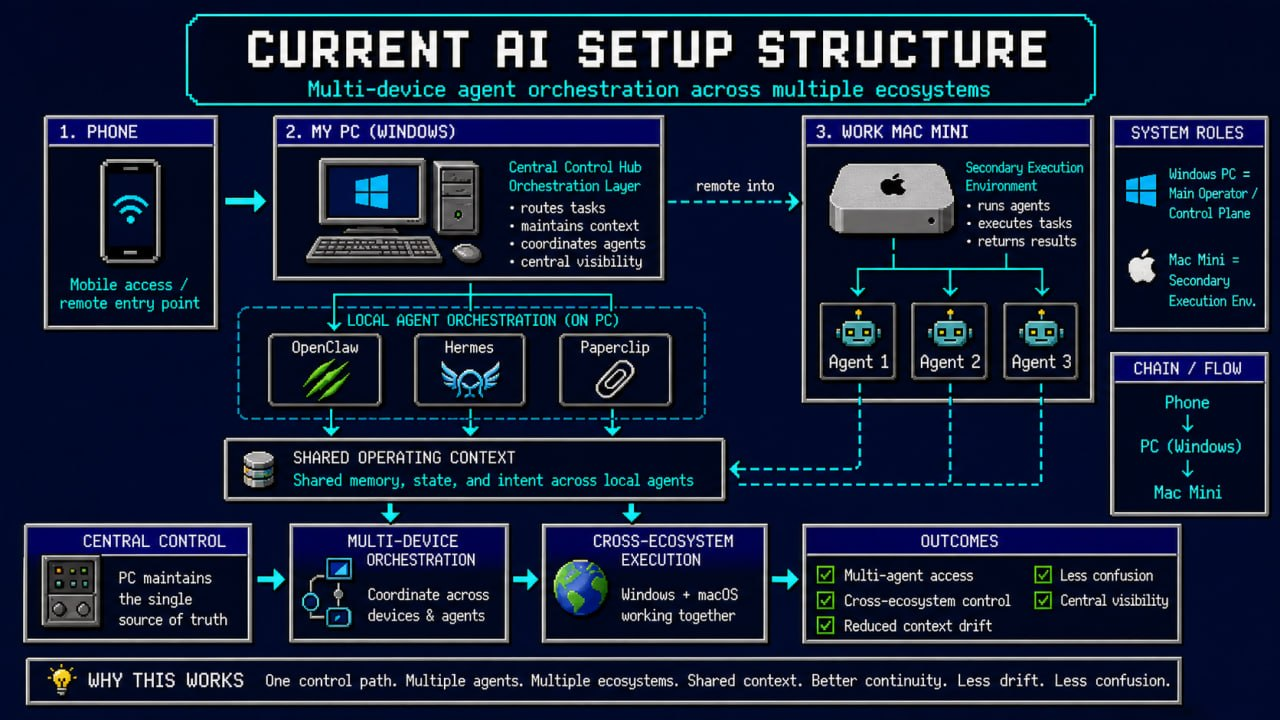
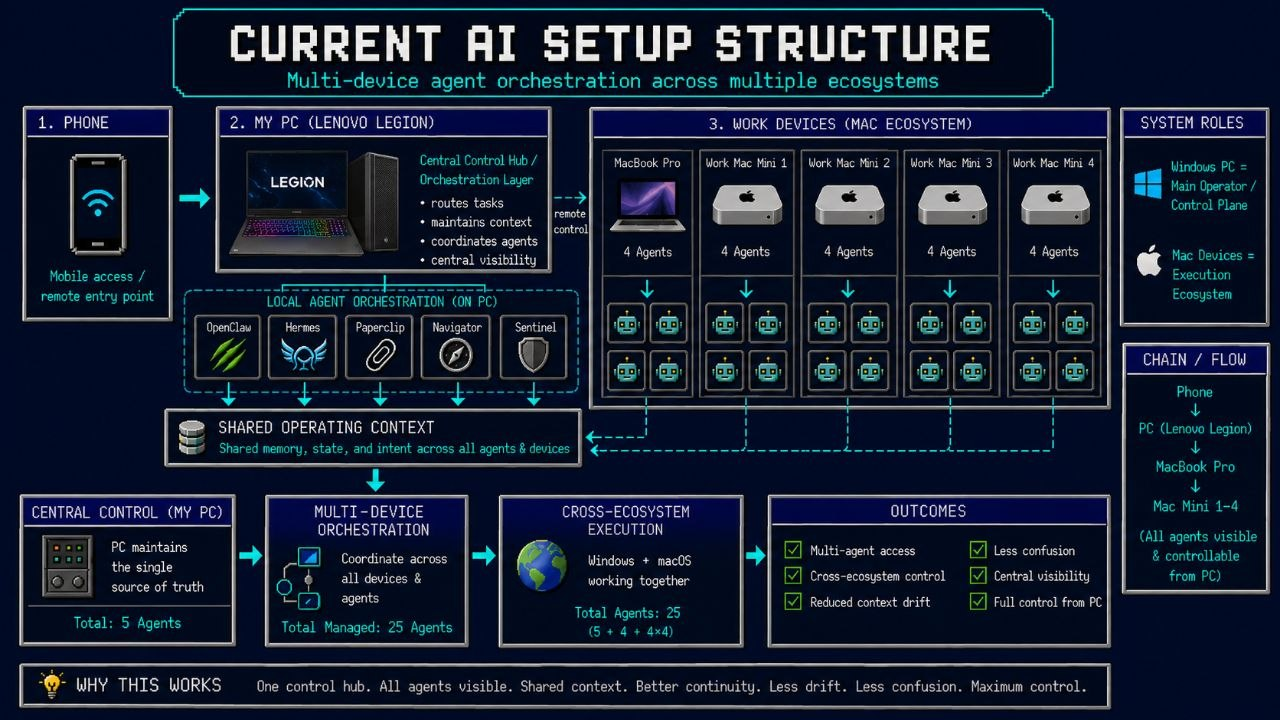
Update AI setup diagram and enablement copy

diff --git a/index.html b/index.html
@@ -200,15 +200,22 @@
     </section>
 
     <section id="buildWindow" class="win-window doc-window" aria-label="What I Build" style="left:150px;top:70px;width:min(960px,94vw);height:min(730px,calc(100dvh - 90px));">
-      <div class="win-title"><span>What I Build - Practical AI Value Systems</span><button class="win-close" data-close="buildWindow">×</button></div>
+      <div class="win-title"><span>What I Build - Business AI Enablement</span><button class="win-close" data-close="buildWindow">×</button></div>
       <div class="win-body document-body">
         <article class="resume-doc build-doc">
           <div class="mini-heading lift-heading"><h2>What I Build</h2></div>
           <figure class="site-art-card"><img src="assets/site-art/workflow-systems.jpg" alt="Pixel art workflow systems graphic showing CRM, automation, dashboards, operations, validation, and visibility" loading="lazy" /></figure>
-          <p class="brand-promise"><b>I help turn AI from confusing tools and scattered experiments into practical workflows, automations, agents, dashboards, and operating layers that people can actually use.</b></p>
+          <p class="brand-promise"><b>I build the environment that enables the business and the people inside it to become better with AI: shared context, safe agent workflows, dashboards, training loops, and operating habits that turn staff into confident AI users instead of passive tool consumers.</b></p>
+          <figure class="agent-setup-diagram business-ai-environment">
+            <a href="assets/diagrams/current-ai-setup-structure.jpg?v=20260617-agent-setup" target="_blank" rel="noopener" aria-label="Open business AI enablement environment diagram full size">
+              <img src="assets/diagrams/current-ai-setup-structure.jpg?v=20260617-agent-setup" alt="Current AI setup structure used as an environment for business AI enablement, showing shared context, orchestration, multi-device agents, and people gaining clearer leverage from AI." loading="lazy" />
+            </a>
+            <figcaption><b>Environment over tools:</b> the goal is not one clever chatbot. It is a visible operating layer where staff can learn, delegate, review, improve workflows, and become AI-capable operators inside the business.</figcaption>
+          </figure>
           <div class="build-grid">
             <article class="mini-content-card"><b>Lead Response & Customer Journey</b><figure class="mini-card-figure"><img src="assets/minime-pack/build_lead_response.png" alt="Pixel mini Michael representing Lead Response & Customer Journey" loading="lazy" /></figure><span>Lead intake, qualification, quote prep, follow-up, review requests, warranty loops, and handoff summaries so fewer opportunities go stale.</span></article>
             <article class="mini-content-card"><b>AI Agent Workflows</b><figure class="mini-card-figure"><img src="assets/minime-pack/build_agents.png" alt="Pixel mini Michael representing AI Agent Workflows" loading="lazy" /></figure><span>OpenClaw/Hermes-style agents with bounded tools, Telegram accountability, logs, receipts, review gates, and fail-closed permission rules.</span></article>
+            <article class="mini-content-card"><b>Business AI Enablement Environment</b><figure class="mini-card-figure"><img src="assets/minime-pack/project_agent_context.png" alt="Pixel mini Michael representing Business AI Enablement Environment" loading="lazy" /></figure><span>Staff become AI-capable operators through shared context, repeatable prompts, visible handoffs, training packs, safe review loops, and practical examples from their own work.</span></article>
             <article class="mini-content-card"><b>Dashboards & Exception Radar</b><figure class="mini-card-figure"><img src="assets/minime-pack/build_dashboards.png" alt="Pixel mini Michael representing Dashboards & Exception Radar" loading="lazy" /></figure><span>Operational views that surface overdue jobs, stale leads, missing payments, review gaps, bottlenecks, and evidence links — not vanity charts.</span></article>
             <article class="mini-content-card"><b>CRM / Ops / Admin Integration</b><figure class="mini-card-figure"><img src="assets/minime-pack/build_crm.png" alt="Pixel mini Michael representing CRM / Ops / Admin Integration" loading="lazy" /></figure><span>Clear workflow boundaries between sales, marketing, admin, finance, field teams, reporting, and customer communications.</span></article>
             <article class="mini-content-card"><b>Knowledge & Process Systems</b><figure class="mini-card-figure"><img src="assets/minime-pack/build_knowledge.png" alt="Pixel mini Michael representing Knowledge & Process Systems" loading="lazy" /></figure><span>SOPs, repeated-question capture, training packs, internal answers, source-of-truth cleanup, and process simplification before automation.</span></article>
@@ -322,10 +329,10 @@
             <div class="mini-content-card"><b>Human Review Layer</b><figure class="mini-card-figure"><img src="assets/minime-pack/agent_human_review.png" alt="Pixel mini Michael representing Human Review Layer" loading="lazy" /></figure><span>Trust layer: approval gates, evidence, audit trails, fail-closed workflows, exception surfacing, and handoff back to a person.</span></div>
           </div>
           <figure class="agent-setup-diagram">
-            <a href="assets/diagrams/current-ai-setup-structure.jpg?v=20260502-1035" target="_blank" rel="noopener" aria-label="Open current AI setup structure diagram full size">
-              <img src="assets/diagrams/current-ai-setup-structure.jpg?v=[phone redacted]" alt="Diagram of Michael Costea's current daily AI agent setup showing phone as remote entry point, Windows PC as central control hub, local OpenClaw Hermes and Paperclip agents, shared operating context, and a Work Mac Mini as secondary execution environment." />
+            <a href="assets/diagrams/current-ai-setup-structure.jpg?v=20260617-agent-setup" target="_blank" rel="noopener" aria-label="Open current AI setup structure diagram full size">
+              <img src="assets/diagrams/current-ai-setup-structure.jpg?v=[phone redacted]-agent-setup" alt="Diagram of Michael Costea's current daily AI setup structure showing phone access, Windows PC control plane, local agent orchestration, shared operating context, multiple work Mac Minis, cross-ecosystem execution, and outcomes from 25 visible agents." />
             </a>
-            <figcaption><b>Current daily setup:</b> phone → Windows PC control plane → local agents + shared operating context → Work Mac Mini execution environment. Click the diagram to open it full-size.</figcaption>
+            <figcaption><b>Current daily setup:</b> phone → Windows PC control plane → shared operating context → Mac ecosystem execution, with 25 visible agents coordinated from one control hub. Click the diagram to open it full-size.</figcaption>
           </figure>
           <div class="mini-heading compact-mini peek-heading"><h3>Concerns and pitfalls to respect</h3></div>
           <ul>

diff --git a/ux-preview.html b/ux-preview.html
@@ -234,15 +234,22 @@
     </section>
 
     <section id="buildWindow" class="win-window doc-window" aria-label="What I Build" style="left:150px;top:70px;width:min(960px,94vw);height:min(730px,calc(100dvh - 90px));">
-      <div class="win-title"><span>What I Build - AI Business Operating Systems</span><button class="win-close" data-close="buildWindow">×</button></div>
+      <div class="win-title"><span>What I Build - Business AI Enablement</span><button class="win-close" data-close="buildWindow">×</button></div>
       <div class="win-body document-body">
         <article class="resume-doc build-doc">
           <div class="mini-heading lift-heading"><h2>What I Build</h2></div>
           <figure class="site-art-card"><img src="assets/site-art/workflow-systems.jpg" alt="Pixel art workflow systems graphic showing CRM, automation, dashboards, operations, validation, and visibility" loading="lazy" /></figure>
-          <p class="brand-promise"><b>I build practical AI-powered operating layers for growing service businesses: lead flow, customer journey, operations, reporting, knowledge, and admin work made visible and reviewable.</b></p>
+          <p class="brand-promise"><b>I build the environment that enables the business and the people inside it to become better with AI: shared context, safe agent workflows, dashboards, training loops, and operating habits that turn staff into confident AI users instead of passive tool consumers.</b></p>
+          <figure class="agent-setup-diagram business-ai-environment">
+            <a href="assets/diagrams/current-ai-setup-structure.jpg?v=20260617-agent-setup" target="_blank" rel="noopener" aria-label="Open business AI enablement environment diagram full size">
+              <img src="assets/diagrams/current-ai-setup-structure.jpg?v=20260617-agent-setup" alt="Current AI setup structure used as an environment for business AI enablement, showing shared context, orchestration, multi-device agents, and people gaining clearer leverage from AI." loading="lazy" />
+            </a>
+            <figcaption><b>Environment over tools:</b> the goal is not one clever chatbot. It is a visible operating layer where staff can learn, delegate, review, improve workflows, and become AI-capable operators inside the business.</figcaption>
+          </figure>
           <div class="build-grid">
             <article class="mini-content-card"><b>Lead Response & Customer Journey</b><figure class="mini-card-figure"><img src="assets/minime-pack/build_lead_response.png" alt="Pixel mini Michael representing Lead Response & Customer Journey" loading="lazy" /></figure><span>Lead intake, qualification, quote prep, follow-up, review requests, warranty loops, and handoff summaries so fewer opportunities go stale.</span></article>
             <article class="mini-content-card"><b>AI Agent Workflows</b><figure class="mini-card-figure"><img src="assets/minime-pack/build_agents.png" alt="Pixel mini Michael representing AI Agent Workflows" loading="lazy" /></figure><span>OpenClaw/Hermes-style agents with bounded tools, Telegram accountability, logs, receipts, review gates, and fail-closed permission rules.</span></article>
+            <article class="mini-content-card"><b>Business AI Enablement Environment</b><figure class="mini-card-figure"><img src="assets/minime-pack/project_agent_context.png" alt="Pixel mini Michael representing Business AI Enablement Environment" loading="lazy" /></figure><span>Staff become AI-capable operators through shared context, repeatable prompts, visible handoffs, training packs, safe review loops, and practical examples from their own work.</span></article>
             <article class="mini-content-card"><b>Dashboards & Exception Radar</b><figure class="mini-card-figure"><img src="assets/minime-pack/build_dashboards.png" alt="Pixel mini Michael representing Dashboards & Exception Radar" loading="lazy" /></figure><span>Operational views that surface overdue jobs, stale leads, missing payments, review gaps, bottlenecks, and evidence links — not vanity charts.</span></article>
             <article class="mini-content-card"><b>CRM / Ops / Admin Integration</b><figure class="mini-card-figure"><img src="assets/minime-pack/build_crm.png" alt="Pixel mini Michael representing CRM / Ops / Admin Integration" loading="lazy" /></figure><span>Clear workflow boundaries between sales, marketing, admin, finance, field teams, reporting, and customer communications.</span></article>
             <article class="mini-content-card"><b>Knowledge & Process Systems</b><figure class="mini-card-figure"><img src="assets/minime-pack/build_knowledge.png" alt="Pixel mini Michael representing Knowledge & Process Systems" loading="lazy" /></figure><span>SOPs, repeated-question capture, training packs, internal answers, source-of-truth cleanup, and process simplification before automation.</span></article>
@@ -356,10 +363,10 @@
             <div class="mini-content-card"><b>Human Review Layer</b><figure class="mini-card-figure"><img src="assets/minime-pack/agent_human_review.png" alt="Pixel mini Michael representing Human Review Layer" loading="lazy" /></figure><span>Trust layer: approval gates, evidence, audit trails, fail-closed workflows, exception surfacing, and handoff back to a person.</span></div>
           </div>
           <figure class="agent-setup-diagram">
-            <a href="assets/diagrams/current-ai-setup-structure.jpg?v=20260502-1035" target="_blank" rel="noopener" aria-label="Open current AI setup structure diagram full size">
-              <img src="assets/diagrams/current-ai-setup-structure.jpg?v=[phone redacted]" alt="Diagram of Michael Costea's current daily AI agent setup showing phone as remote entry point, Windows PC as central control hub, local OpenClaw Hermes and Paperclip agents, shared operating context, and a Work Mac Mini as secondary execution environment." />
+            <a href="assets/diagrams/current-ai-setup-structure.jpg?v=20260617-agent-setup" target="_blank" rel="noopener" aria-label="Open current AI setup structure diagram full size">
+              <img src="assets/diagrams/current-ai-setup-structure.jpg?v=[phone redacted]-agent-setup" alt="Diagram of Michael Costea's current daily AI setup structure showing phone access, Windows PC control plane, local agent orchestration, shared operating context, multiple work Mac Minis, cross-ecosystem execution, and outcomes from 25 visible agents." />
             </a>
-            <figcaption><b>Current daily setup:</b> phone → Windows PC control plane → local agents + shared operating context → Work Mac Mini execution environment. Click the diagram to open it full-size.</figcaption>
+            <figcaption><b>Current daily setup:</b> phone → Windows PC control plane → shared operating context → Mac ecosystem execution, with 25 visible agents coordinated from one control hub. Click the diagram to open it full-size.</figcaption>
           </figure>
           <div class="mini-heading compact-mini peek-heading"><h3>Concerns and pitfalls to respect</h3></div>
           <ul>